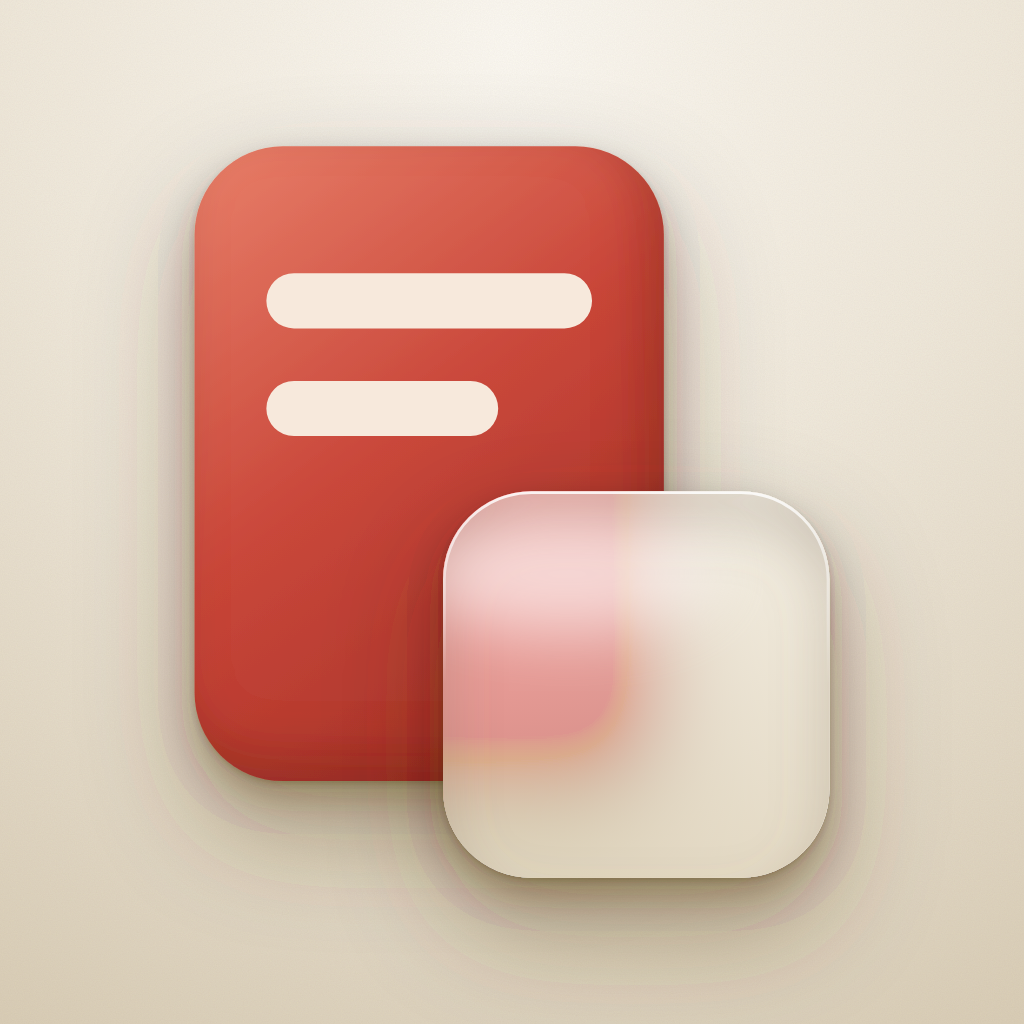
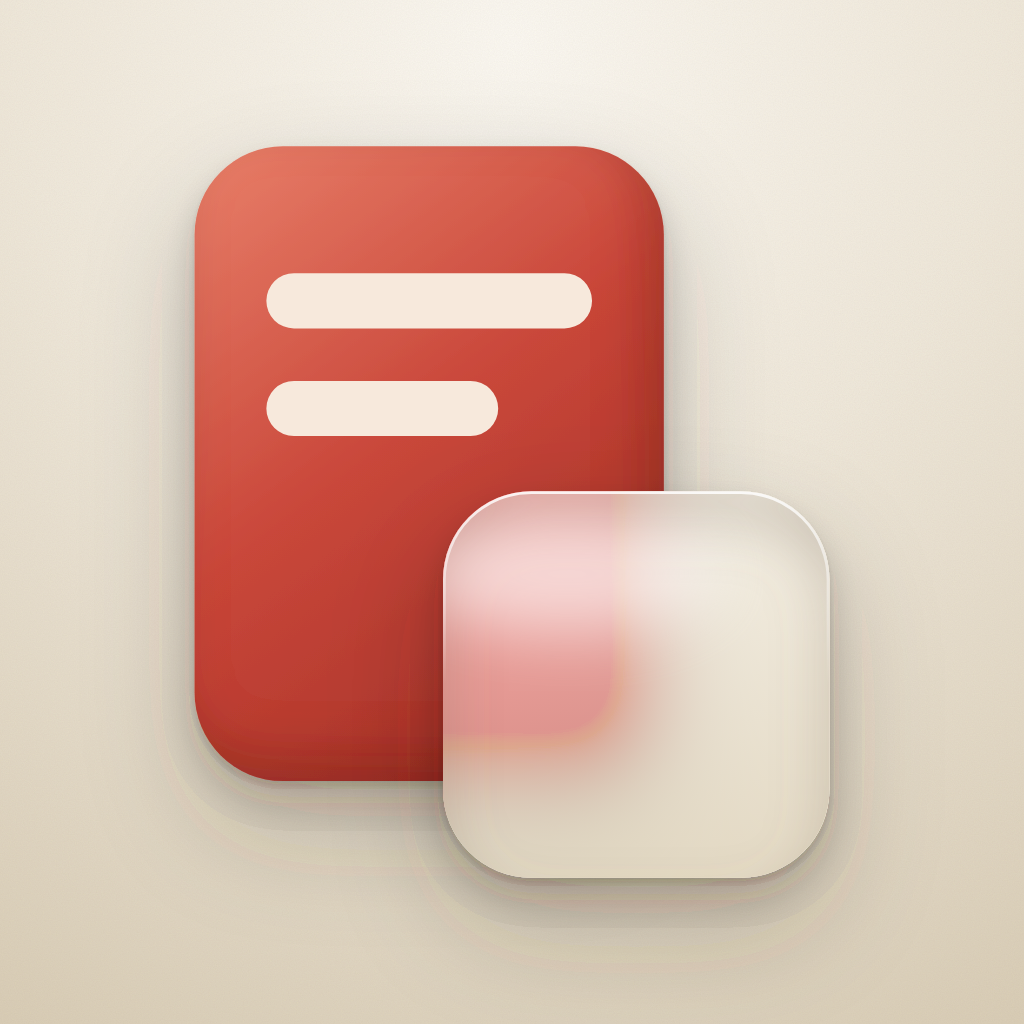
Soften Tide sheen, thicken arc, lighten shadows on light grounds
Claude-Session: https://claude.ai/code/session_01Ryqgs4mNU62SDVVXv1wPwj

Changed region(s): [[0.2188, 0.75, 0.7812, 0.9062], [0.7812, 0.8125, 0.8125, 0.8438], [0.1875, 0.7188, 0.2188, 0.75]]

diff --git a/SKILL.md b/SKILL.md
@@ -67,6 +67,8 @@ python3 scripts/render.py path/to/icon.svg -o renders
 | 重叠处没看头 | 让实色和釉重叠 25%–45% 面积；太少没焦点，太多实色被吞掉 |
 | 主体显得小、四周太空 | 加大 transform 里的 scale，让长边到 720 px 左右 |
 | 小尺寸糊成一团 | 加大两层的明度差，减少釉形状上的凹凸细节 |
+| 浅色底上投影发褐、发脏 | 投影透明度降到 0.23 / 0.16 / 0.12，颜色换中性的 `#3A332A` |
+| 釉光太亮，釉面像一颗球 | 釉光椭圆要扁（高约为宽的 30%），放在上沿内侧，不要压在中心 |
 | 看起来很平、不高级 | 对照 `style.md` 的「质感从哪里来」六件事逐项检查 |
 | 颜色廉价、不够东方 | 换回传统色板里的颜色；底色压深、实色降饱和 |
 

diff --git a/references/style.md b/references/style.md
@@ -37,7 +37,7 @@
 | 底色 | 径向渐变，圆心 (512, 40)，半径 1100，三档：亮 / 中（45%）/ 深 |
 | 颗粒 | 深色底白颗粒 6%，浅色底暖褐颗粒 6% |
 | 实色内阴影 | 偏移 (-14, -18)、模糊 18，实色最深档，透明度 0.45 |
-| 投影 | 远 0.38、中 0.26、贴地 0.2 |
+| 投影 | 深色底：远 0.38、中 0.26、贴地 0.2；浅色底：0.23、0.16、0.12，颜色用中性深褐 `#3A332A`，太暖太浓会让纸面发脏 |
 | 重叠面积 | 实色与釉重叠约 25%–45% |
 
 ## 传统色板
